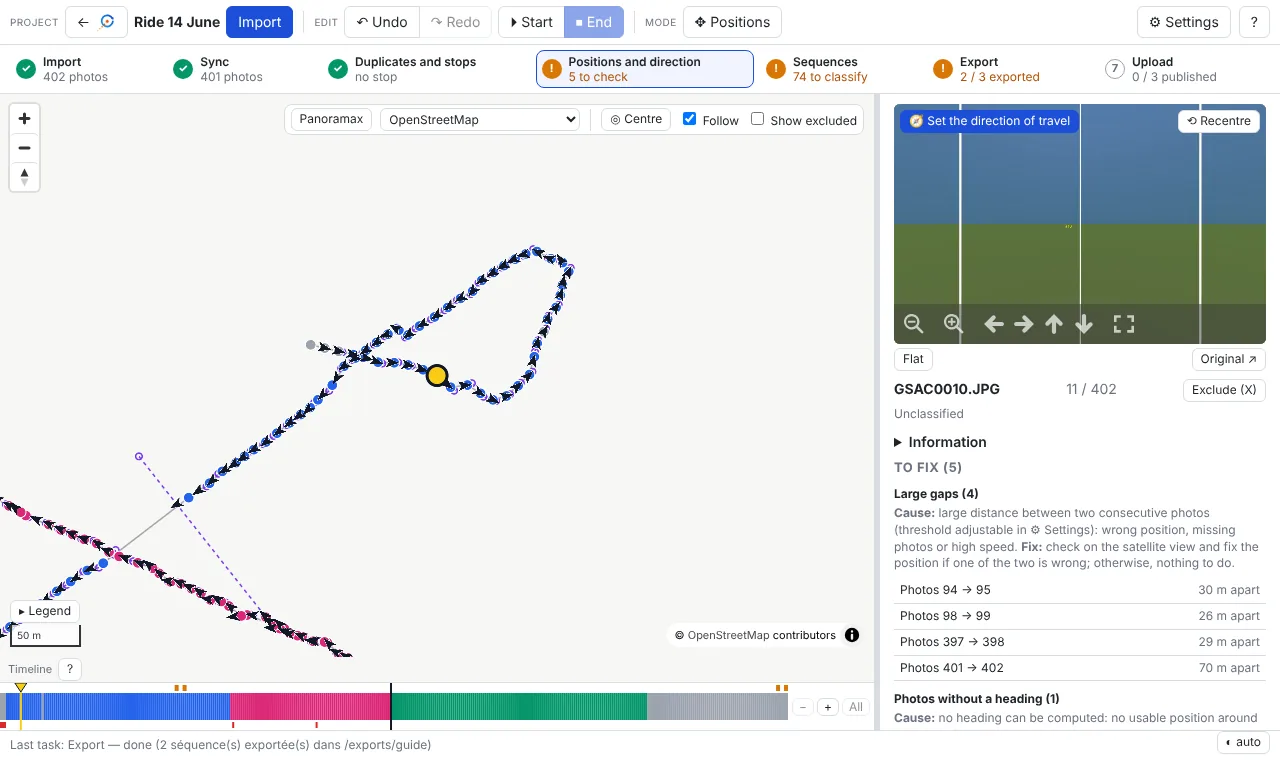
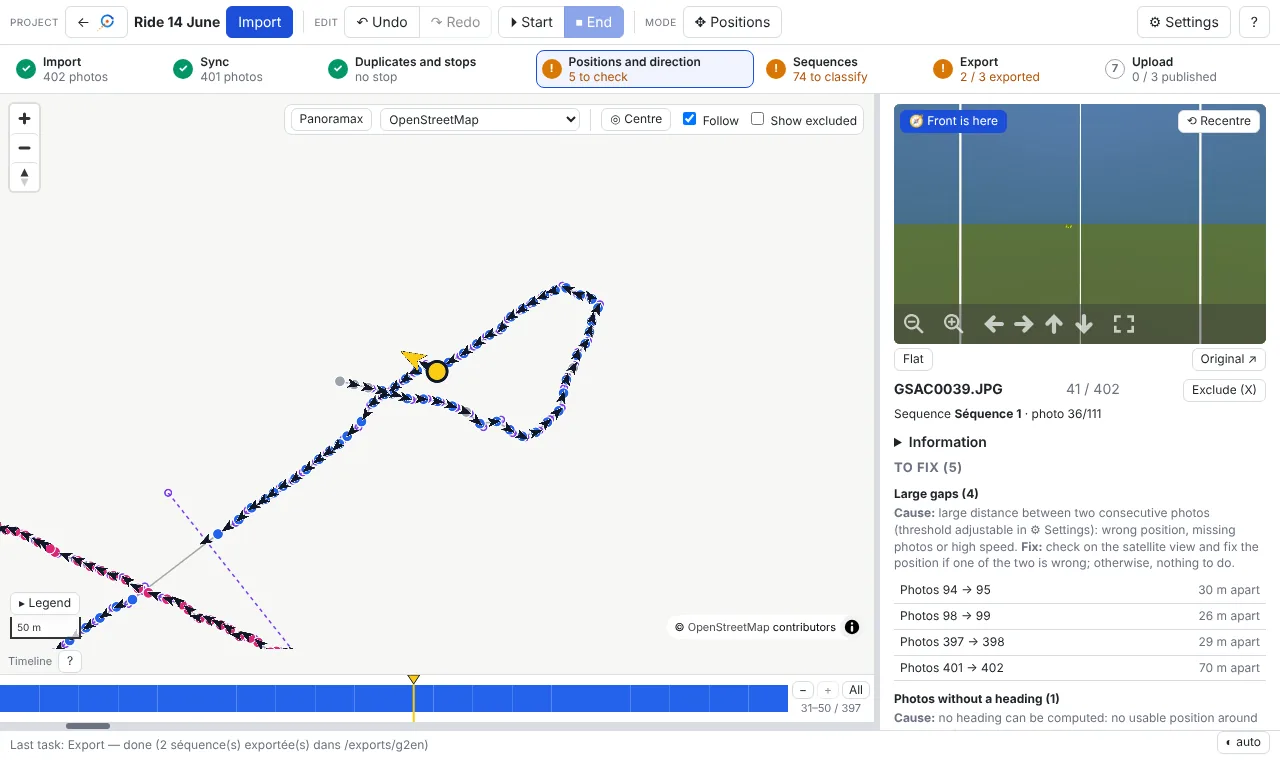
Libellés : bouton « L'avant est ici » et légende « sens de déplacement » ; captures concernées régénérées
Claude-Session: https://claude.ai/code/session_01UxooiTB1SJsNtET5WquF4Y

diff --git a/frontend/src/i18n/en.ts b/frontend/src/i18n/en.ts
@@ -386,8 +386,8 @@ export const en: Record<Key, string> = {
   'photo.end': '⏹ End',
   'photo.endBig': ' — {n} photos',
   'photo.unreadable': 'Unreadable image',
-  'photo.fixRange': 'Direction of travel (range {a}→{b})',
-  'photo.fix': 'Set the direction of travel',
+  'photo.fixRange': 'Front is here (range {a}→{b})',
+  'photo.fix': 'Front is here',
   'photo.excluded': 'Excluded photo (outside sequences, never exported).',
   'photo.reinclude': 'Re-include (Shift+X)',
   'photo.exclude': 'Exclude (X)',
@@ -412,7 +412,7 @@ export const en: Record<Key, string> = {
   'photo.orient.right': ' (to the right)',
   'photo.orient.left': ' (to the left)',
   'photo.orient.zero': 'Image centre <b>in the direction of travel</b> (0°)',
-  'photo.orient.keyHeading': 'heading',
+  'photo.orient.keyHeading': 'direction of travel',
   'photo.orient.keyCentre': 'image centre',
   'photo.orient.fixHelp': 'To correct it: turn the view to the front then "🧭 Front is here" in the viewer.',
   'photo.orient.reset': 'Reset to 0°',

diff --git a/frontend/src/i18n/fr.ts b/frontend/src/i18n/fr.ts
@@ -385,8 +385,8 @@ export const fr = {
   'photo.end': '⏹ Fin',
   'photo.endBig': ' — {n} photos',
   'photo.unreadable': 'Image illisible',
-  'photo.fixRange': 'Sens de déplacement (plage {a}→{b})',
-  'photo.fix': 'Fixer le sens de déplacement',
+  'photo.fixRange': "L'avant est ici (plage {a}→{b})",
+  'photo.fix': "L'avant est ici",
   'photo.excluded': 'Photo exclue (hors séquences, jamais exportée).',
   'photo.reinclude': 'Réintégrer (Maj+X)',
   'photo.exclude': 'Exclure (X)',
@@ -411,7 +411,7 @@ export const fr = {
   'photo.orient.right': ' (vers la droite)',
   'photo.orient.left': ' (vers la gauche)',
   'photo.orient.zero': "Centre de l'image <b>dans le sens de déplacement</b> (0°)",
-  'photo.orient.keyHeading': 'cap',
+  'photo.orient.keyHeading': 'sens de déplacement',
   'photo.orient.keyCentre': "centre de l'image",
   'photo.orient.fixHelp': "Pour la corriger : tournez la vue vers l'avant puis « 🧭 L'avant est ici » dans la visionneuse.",
   'photo.orient.reset': 'Remettre à 0°',

diff --git a/doc/GUIDE_CODE.md b/doc/GUIDE_CODE.md
@@ -217,7 +217,7 @@ exclues) et `stepIdx` fait sauter les exclues à ← →, Début/Fin et après `
 creux et permet d'y aller). La visionneuse signale sa
 direction (`onView`, événement `position-updated` de Photo Sphere Viewer) : la flèche de la photo sélectionnée sur
 la carte prend l'orientation cap + direction de vue (`viewAzimuth`). Après un glisser, Photo Sphere Viewer continue
-par inertie : « Fixer le sens de déplacement » appelle `stopAnimation()` avant de lire la direction. En mode
+par inertie : « L'avant est ici » appelle `stopAnimation()` avant de lire la direction. En mode
 Positions ou Synchro, le zoom au double-clic de la carte est désactivé (sélectionner une photo puis saisir son
 marqueur faisait un double-clic) ; la carte ne se recentre que lorsque la photo sélectionnée change.
 
@@ -237,7 +237,7 @@ ces balises ne sont pas touchées (ou reprennent leur valeur d'origine sur une s
 contient `_captured`, la liste des balises sauvegardées, pour ne pas effacer celles que les anciennes versions ne
 sauvegardaient pas).
 
-Visionneuse : `sphereCorrection` = orientation de la photo, pose XMP forcée à 0. « Fixer le sens de déplacement » :
+Visionneuse : `sphereCorrection` = orientation de la photo, pose XMP forcée à 0. « L'avant est ici » :
 la vue est dans le repère corrigé ; si l'on regarde la route à l'angle `y`, la nouvelle orientation vaut
 `orientation + y`. `GPSImgDirection` reste le sens de déplacement (le viewer Panoramax ouvre la photo en comparant
 ce cap à la direction vers la photo précédente). `POST …/headings/yaw` : `yaw` (valeur fixée) ou `add` (ajoutée à
